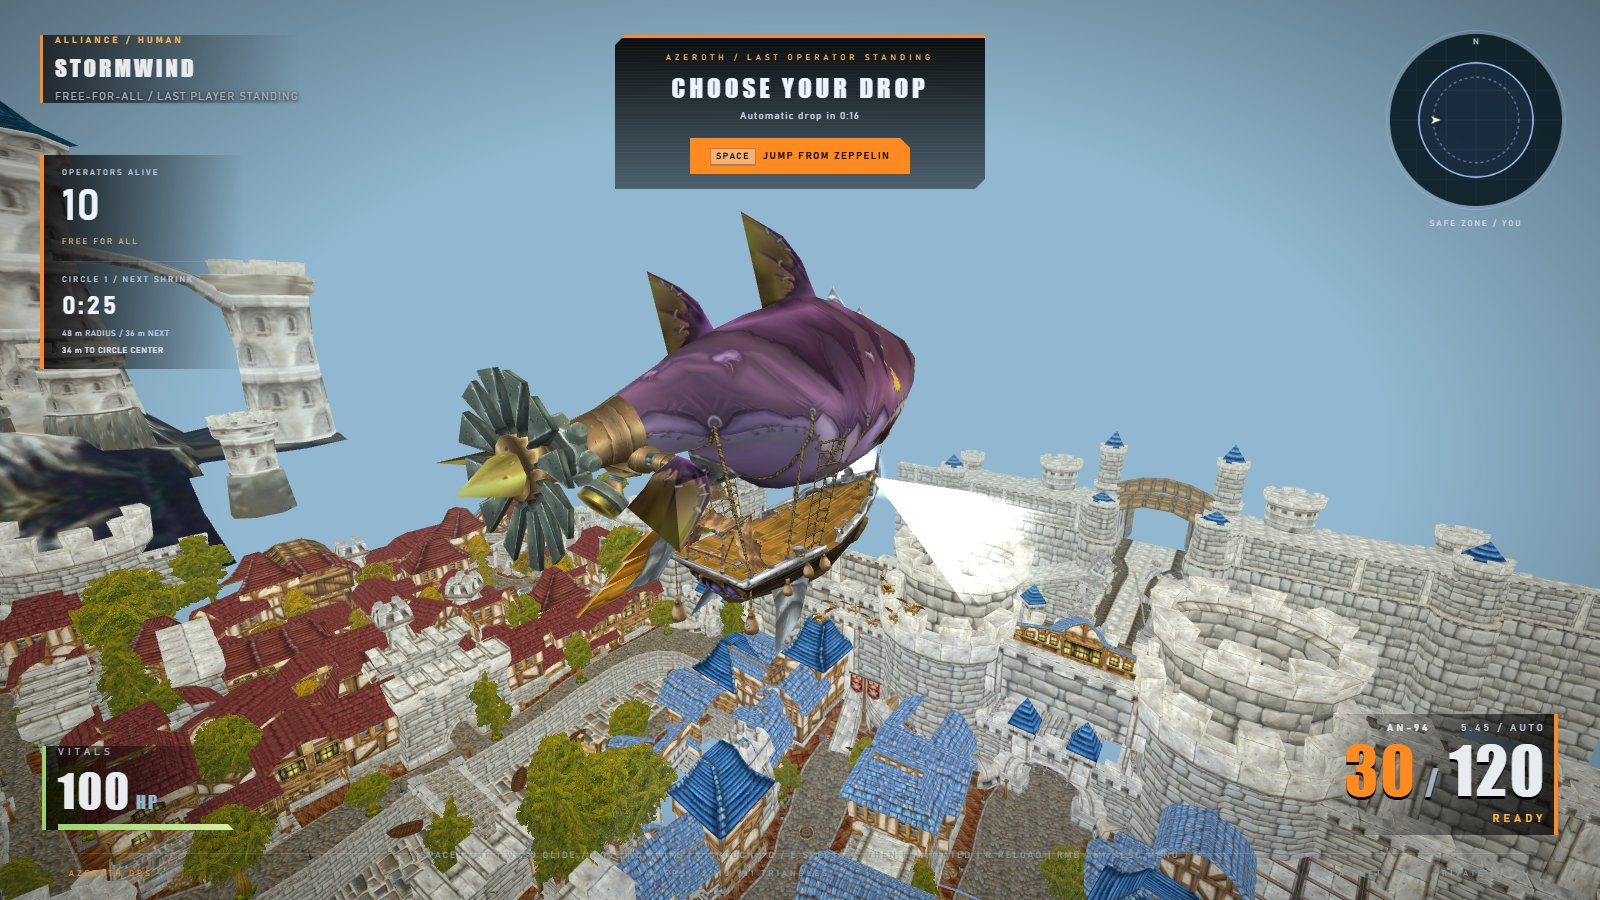
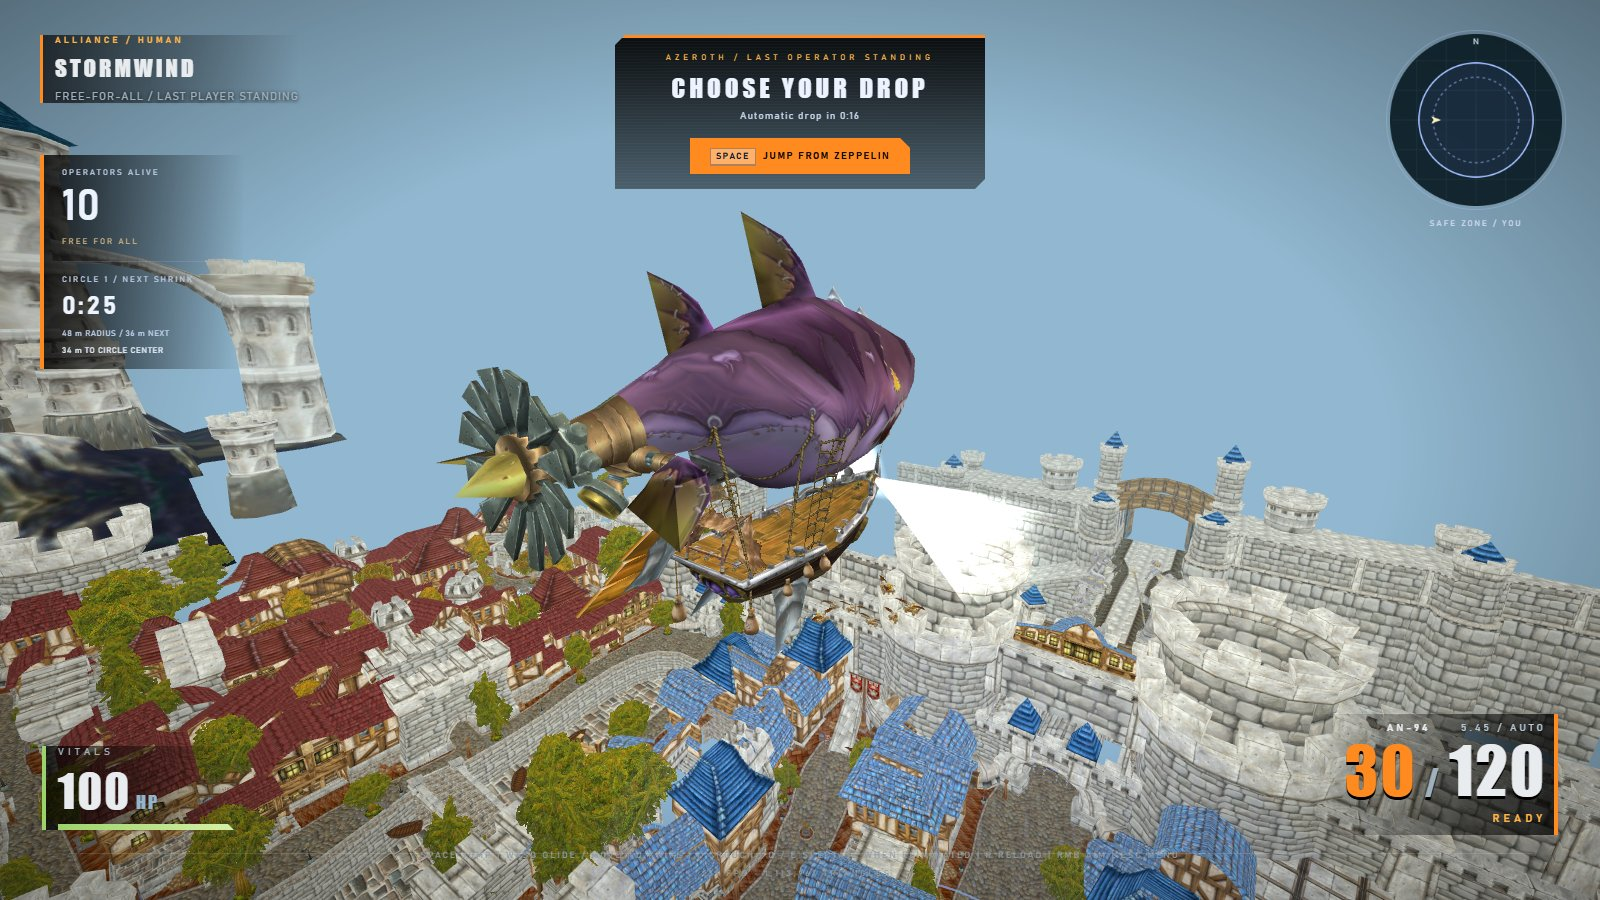
Fix menu/footer overlaps, refresh screenshots, skip asset tests on clean clones
- cod-theme.css: hide the hint paragraph on shorter windows so the menu
  column fits, and keep the page footer from drawing under the in-game HUD.
- Refresh README screenshots.
- tests/helpers/assets.cjs: tests that need the git-ignored game assets now
  skip with a clear message when those files are missing. AO_FORCE_NO_ASSETS=1
  simulates a clean clone. Suite: 470/470 with assets; 0 failures and 25
  skips without.
- handling test: assert head-top geometry instead of the old bald scalp.

diff --git a/public/cod-theme.css b/public/cod-theme.css
@@ -298,3 +298,9 @@ body>footer span:first-child{color:var(--cod-accent)}
 
 /* clip-path would crop the focus ring, so drop it while focused */
 :is(#menu .lan-launch,#menu #play,.workshop-launch,.map,#multiplayer-panel button,#match-session button,.br-phase button,#downloads button):focus-visible{clip-path:none}
+
+/* Layout fixes: keep the menu column inside its box on shorter windows, and keep the
+   page footer from drawing under the in-game HUD. */
+@media(max-height:960px){.hub-sub{display:none}}
+body.playing>footer{text-align:center;justify-content:center}
+body.playing>footer span:first-child,body.playing>footer span:last-child{display:none}

diff --git a/README.md b/README.md
@@ -342,6 +342,8 @@ node scripts/check-snipers.cjs
 node scripts/check-survival.cjs
 ```
 
+`npm test` skips tests that need local game assets; run the importers for full coverage. Set `AO_FORCE_NO_ASSETS=1` to simulate a clean clone.
+
 The browser smoke test uses installed Chrome through Playwright. It tests all ten race selections, both combat modes in all three maps, valid spawns, animated enemy movement, firing and eliminations, survival entry breaches and point rewards, reloads, weapon switching, third person, pause and exploration; it saves screenshots and results in `artifacts/`. Browser tests simulate the Pointer Lock API so hidden test windows cannot confine the Windows desktop cursor. Actual mouse capture is used only during interactive play; Escape, loss of focus, or switching tabs releases it.
 
 Re-import WoW with:

diff --git a/docs/ASSET_MAP.md b/docs/ASSET_MAP.md
@@ -109,7 +109,7 @@ CoD owns the combat layer (guns, gun/FX audio, perk machines, sentry/UAV concept
 
 - Original source code, CSS and HTML are MIT (LICENSE). vendor/mpq is MIT (wow.export); three.js and three-mesh-bvh are MIT.
 - All COD_BO2 and WOW_3_3_5 assets (and MIXED) are NOT redistributable. public/assets/, public/ui/, tools/ and cache/ must stay git-ignored.
-- Code statistics: src 69 files, server 10 files, scripts 44 files, tests 78 files, vendor 6 files, public/*.css|html 18 files.
+- Code statistics: src 69 files, server 10 files, scripts 44 files, tests 79 files, vendor 6 files, public/*.css|html 18 files.
 
 ## New asset folders
 
